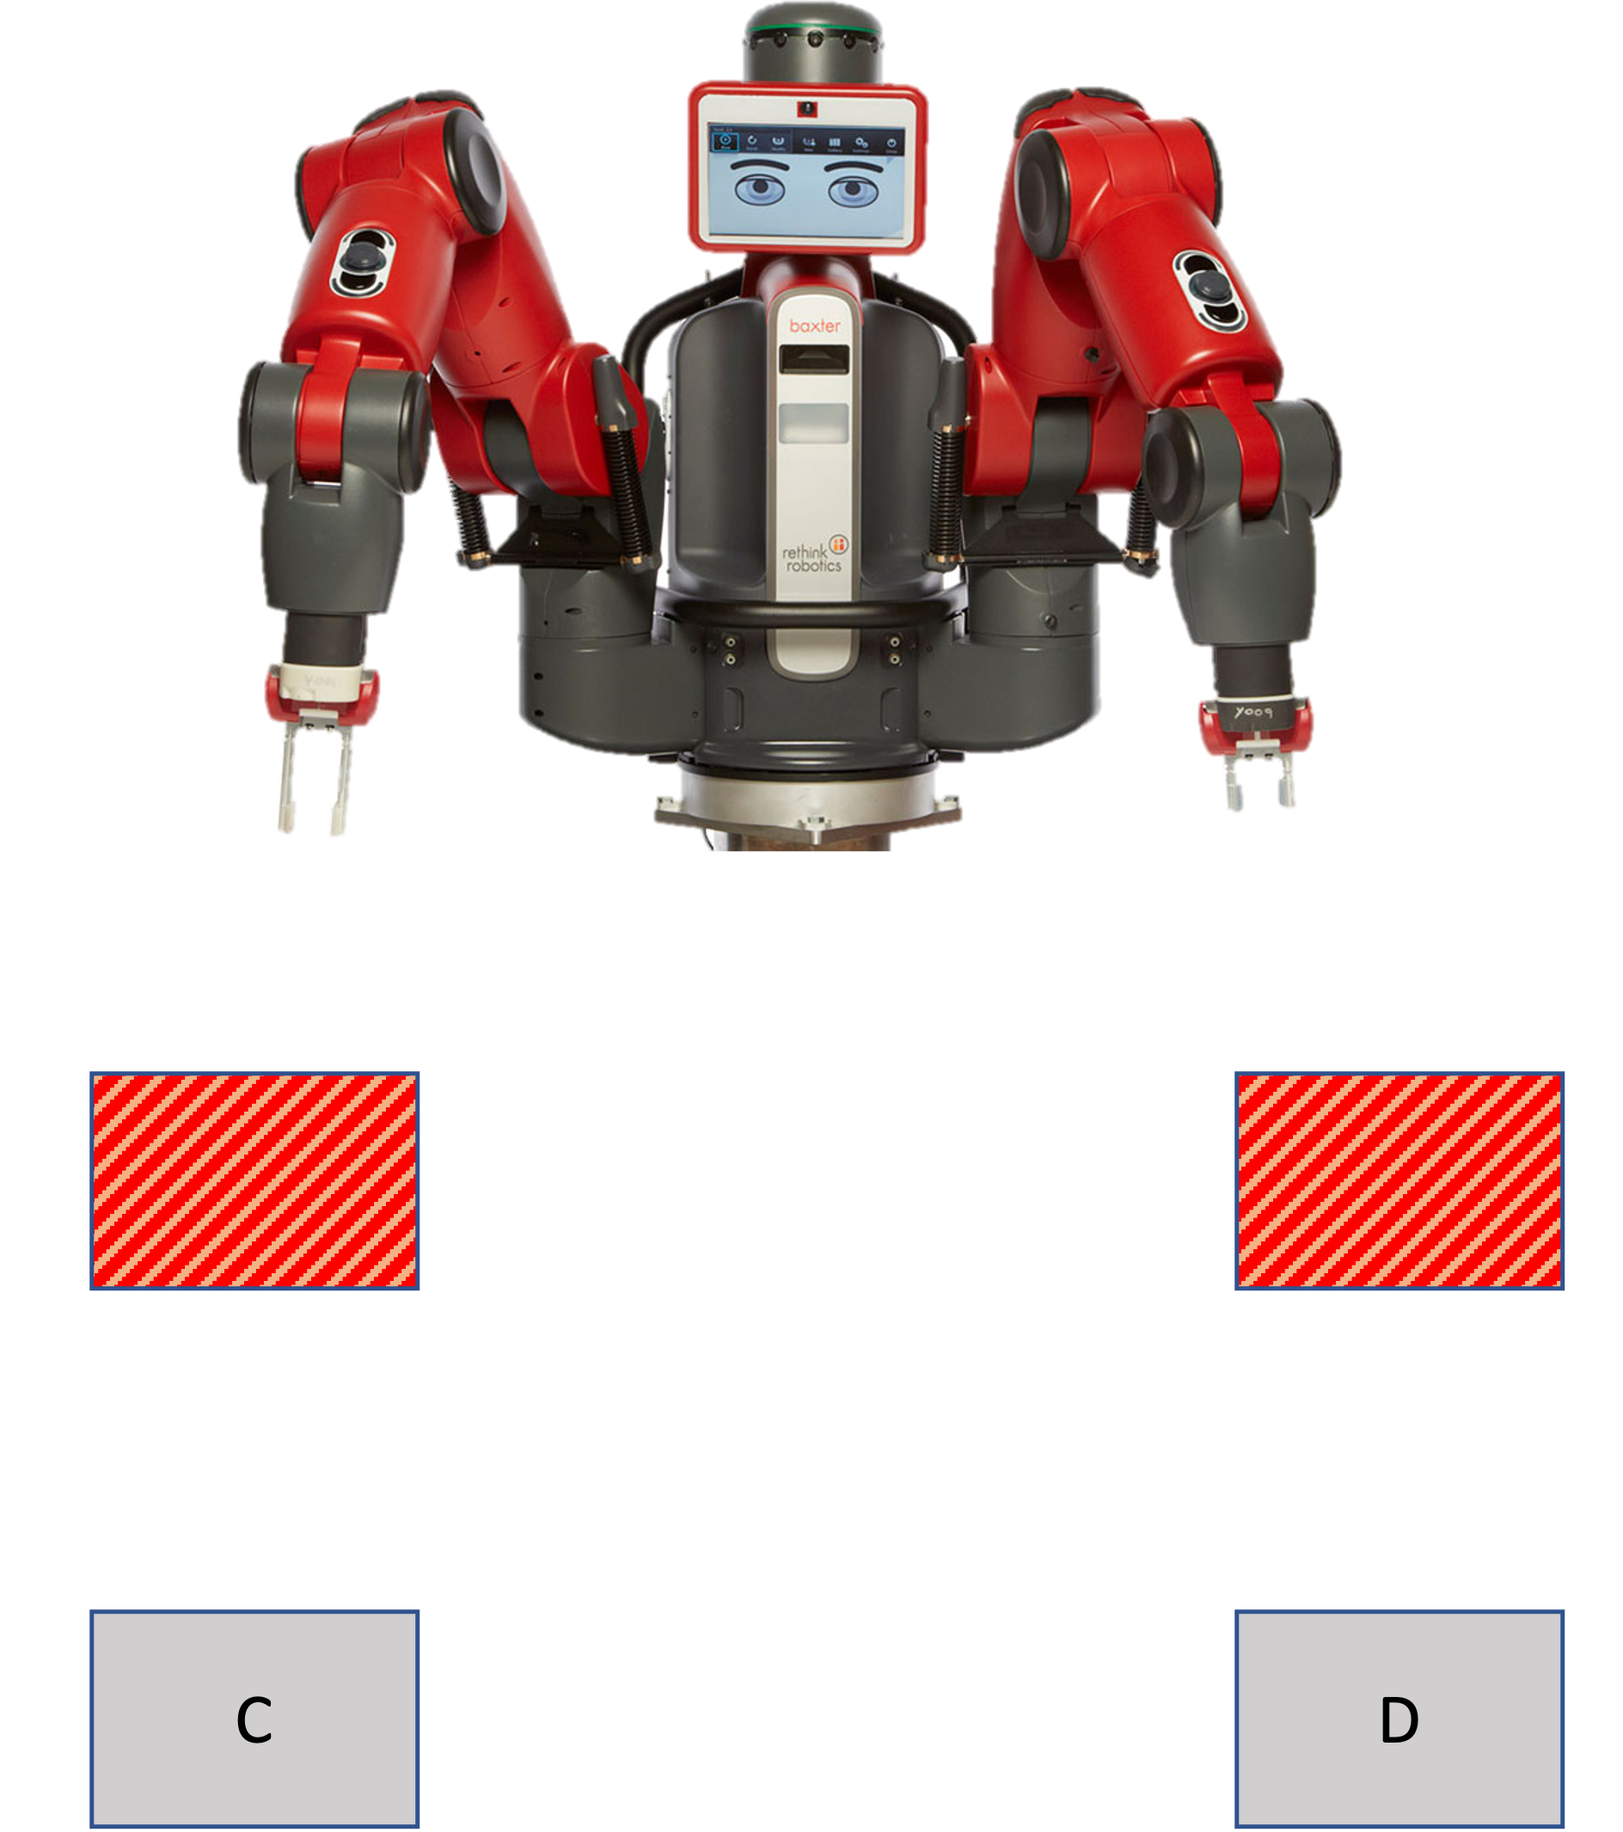
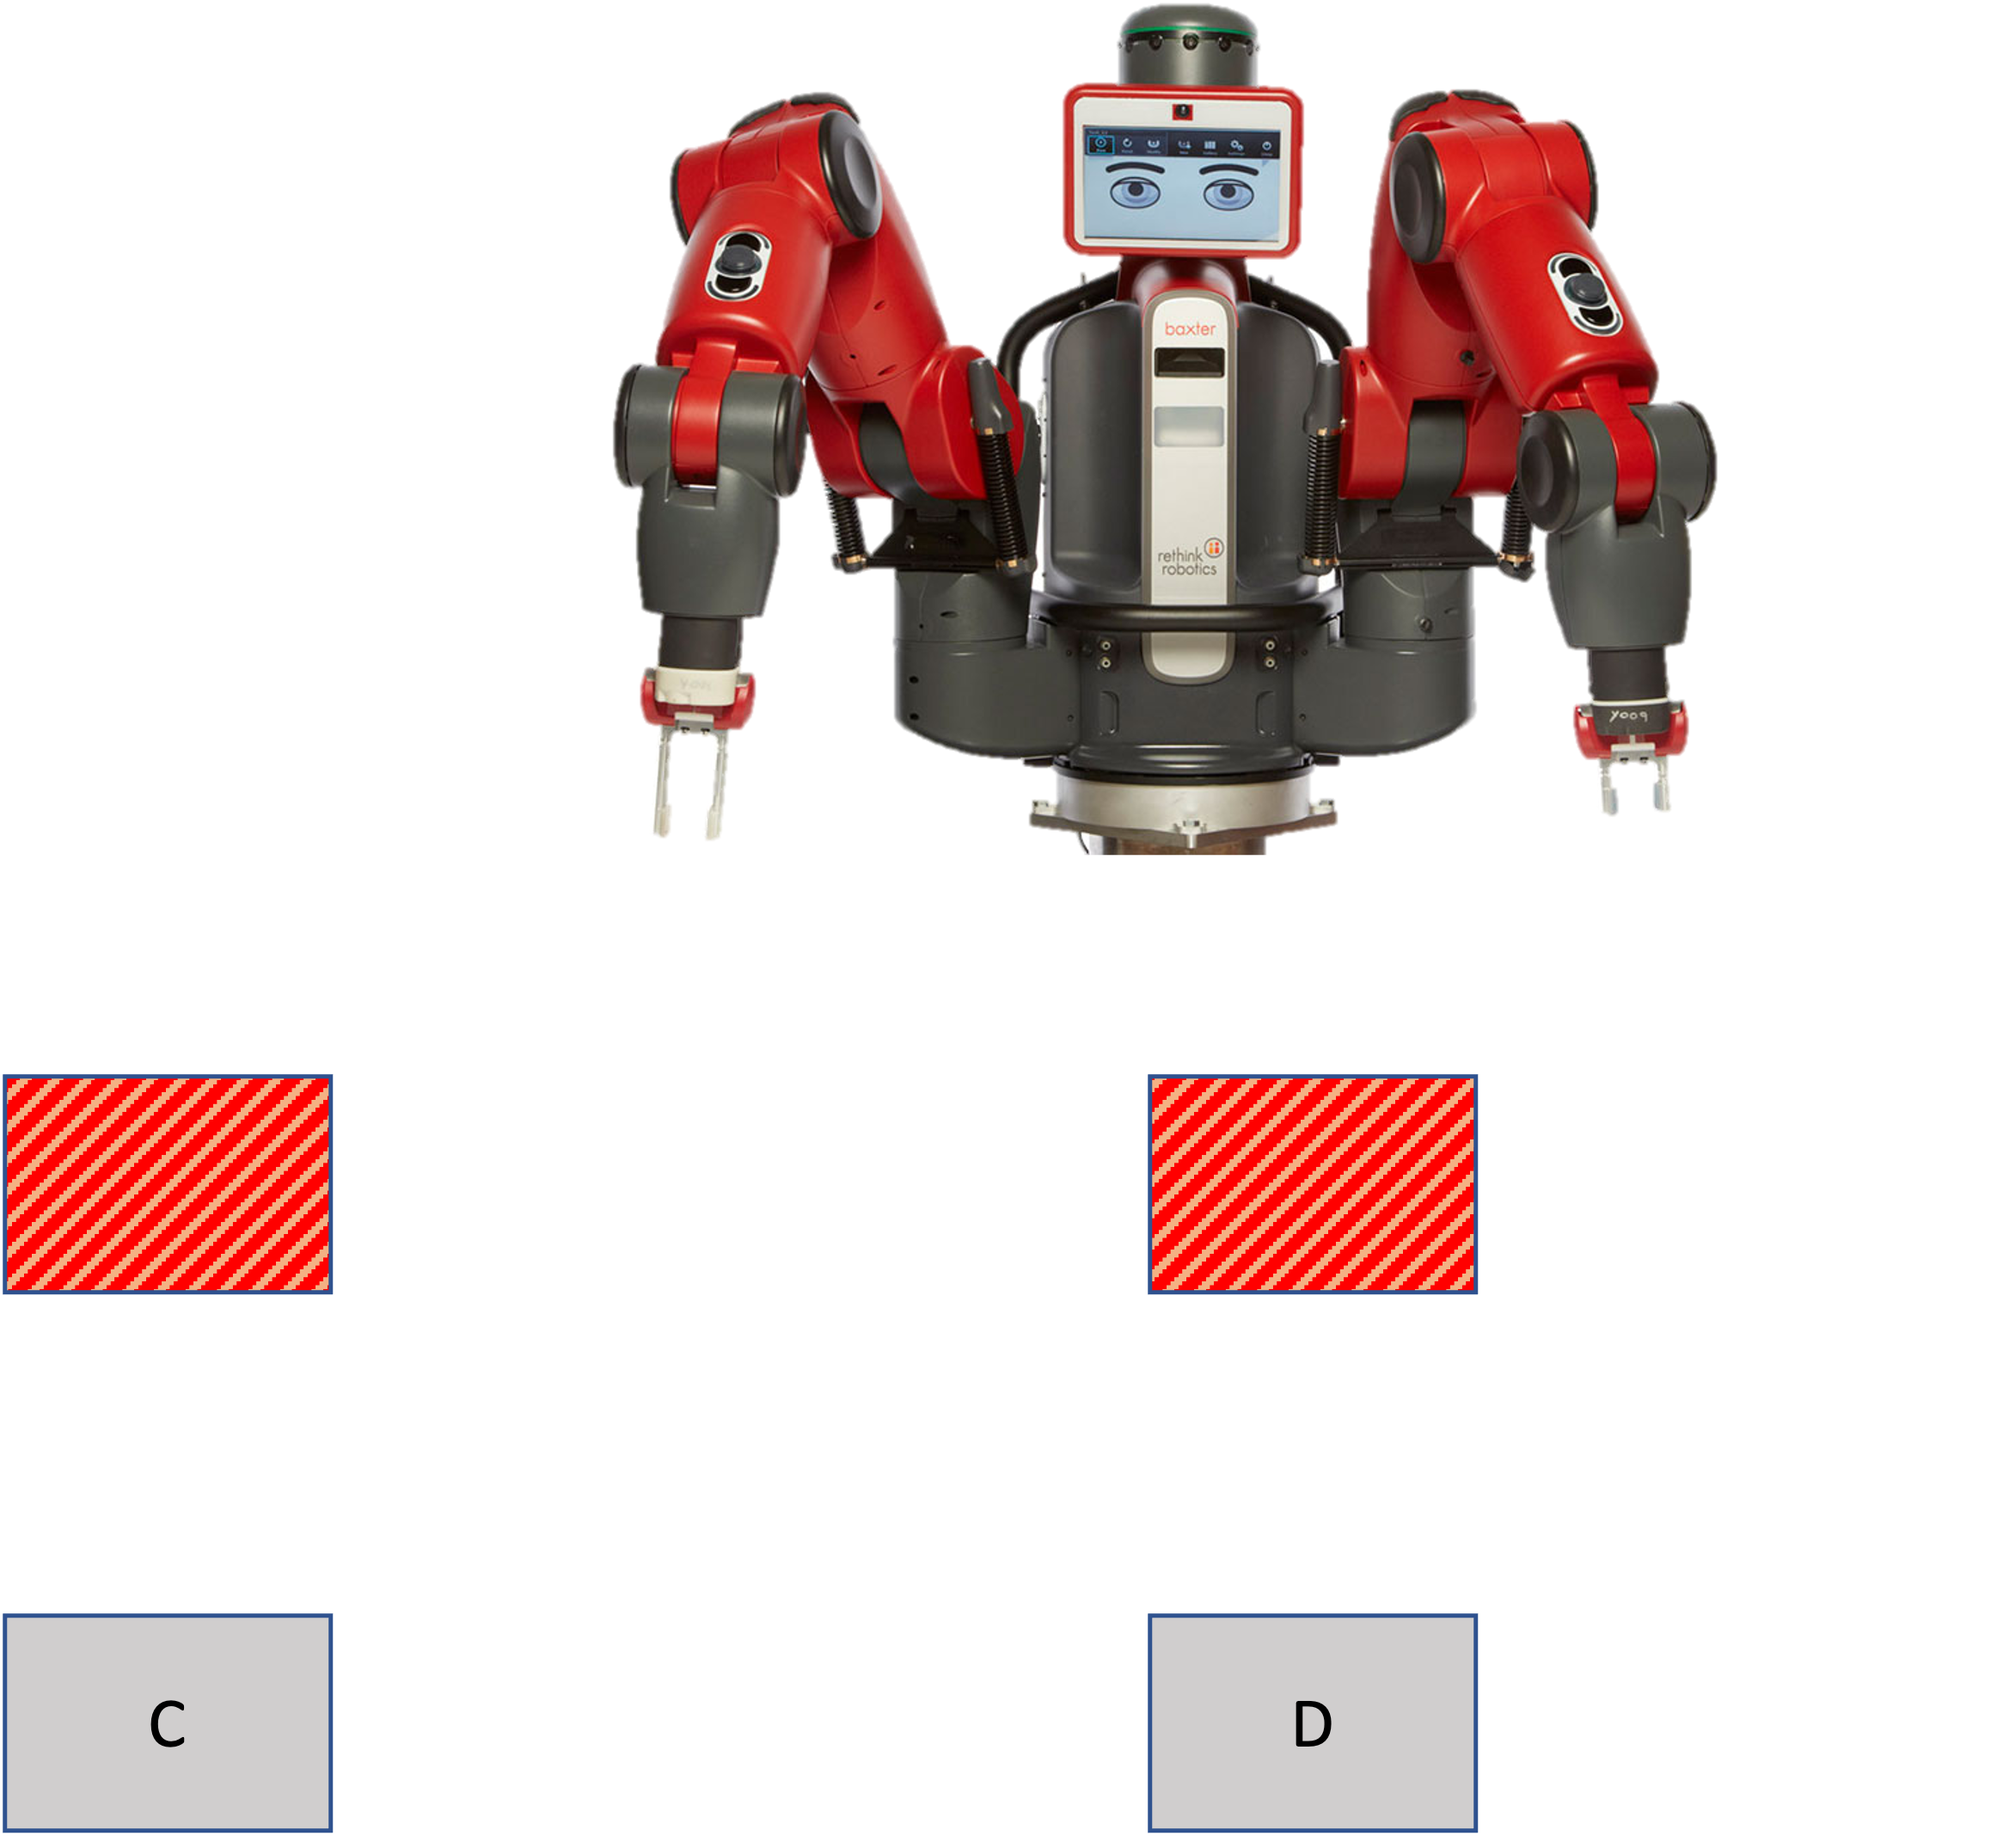
Instructions Simplified White cross is removed and preparation is considered as the count down period. Instructions for move and handover are modified.

diff --git a/gui_base.py b/gui_base.py
@@ -80,7 +80,7 @@ class GuiBase:
         experiment_env = visual.ImageStim(
             image=env_img,
             units="norm",
-            pos=(0, -0.5),
+            pos=(0.05, -0.5),
             size=(0.4, 0.7),
             win=self.win
         )
@@ -176,6 +176,10 @@ class GuiBase:
             event.clearEvents()
 
         # fifth page
+        img2.pos = (-0.25, -0.6)
+        img3.pos = (0.25, -0.6)
+        img2.size = (0.4, 0.8)
+        img3.size = (0.4, 0.8)
         img2.image = move_1
         img3.image = move_2
 
@@ -215,7 +219,7 @@ class GuiBase:
         intro_text.pos = (0, 0.3)
 
         experiment_env.image = pipeline
-        experiment_env.size = (1.1, 0.8)
+        experiment_env.size = (0.7, 0.85)
         experiment_env.pos = (-0.02, -0.55)
 
         intro_text.draw()
@@ -240,10 +244,10 @@ class GuiBase:
         return
 
     def trial_manager(self, trial_sequence):
-        instruction_images = [os.path.join(CONFIG.PATHS.IMGS, "hand_l.png"),
-                              os.path.join(CONFIG.PATHS.IMGS, "hand_r.png"),
-                              os.path.join(CONFIG.PATHS.IMGS, "move_l.png"),
-                              os.path.join(CONFIG.PATHS.IMGS, "move_r.png")]
+        instruction_images = [os.path.join(CONFIG.PATHS.IMGS, "hand_l_ins.png"),
+                              os.path.join(CONFIG.PATHS.IMGS, "hand_r_ins.png"),
+                              os.path.join(CONFIG.PATHS.IMGS, "move_l_ins.png"),
+                              os.path.join(CONFIG.PATHS.IMGS, "move_r_ins.png")]
         for trial in trial_sequence:
             if trial["type"] == "hand" and trial["side"] == "l":
                 self.trial(instruction_images[0])
@@ -256,10 +260,18 @@ class GuiBase:
 
     def trial(self, env_img):
 
-        w_cross = os.path.join(CONFIG.PATHS.IMGS, "white_cross.png")
+        # w_cross = os.path.join(CONFIG.PATHS.IMGS, "white_cross.png")
         r_cross = os.path.join(CONFIG.PATHS.IMGS, "red_cross.png")
         g_cross = os.path.join(CONFIG.PATHS.IMGS, "green_cross.png")
         font_file = [os.path.join(CONFIG.PATHS.STYLES, "OpenSans-Light.ttf")]
+
+        circle = visual.Circle(
+            win=self.win,
+            units="pix",
+            radius=2,
+            fillColor="red",
+            lineColor="red"
+        )
 
         press_text = visual.TextStim(
             font="Open Sans",
@@ -289,12 +301,16 @@ class GuiBase:
         count_down.wrapWidth = 2
         cnt_down = 3
 
+        event.clearEvents()
+        core.wait(CONFIG.CONSTANTS.MARKER_DUR)
+        self.win.flip()
+
         # Instruction
         instruction_img = visual.ImageStim(
             image=env_img,
             units="norm",
             size=(0.5, 0.9),
-            pos=(0, 0.1),
+            pos=(0.05, 0.1),
             win=self.win
         )
 
@@ -303,6 +319,11 @@ class GuiBase:
         self.win.flip()
         core.wait(CONFIG.CONSTANTS.INS_DUR-cnt_down)
         event.clearEvents()
+        self.win.flip()
+        core.wait(CONFIG.CONSTANTS.MARKER_DUR)
+        event.clearEvents()
+        # self.win.flip()
+
         while cnt_down > 0:
             count_down.text = str(cnt_down)
             instruction_img.draw()
@@ -314,22 +335,25 @@ class GuiBase:
             cnt_down -= 1
 
         event.clearEvents()
+        core.wait(CONFIG.CONSTANTS.MARKER_DUR)
         self.win.flip()
+
+        instruction_img.pos = (0, 0.1)
 
         # Preparation
-        instruction_img.image = w_cross
-        instruction_img.size = (0.2, 0.36)
-        instruction_img.draw()
-        self.marker.draw()
-        self.win.flip()
-        core.wait(CONFIG.CONSTANTS.PREP_DUR)
-        event.clearEvents()
-
-        event.clearEvents()
-        self.win.flip()
+        # instruction_img.image = w_cross
+        # instruction_img.size = (0.2, 0.36)
+        # instruction_img.draw()
+        # self.marker.draw()
+        # self.win.flip()
+        # core.wait(CONFIG.CONSTANTS.PREP_DUR)
+        # event.clearEvents()
+        #
+        # event.clearEvents()
+        # self.win.flip()
 
         # Execution
-        instruction_img.image = r_cross
+        instruction_img.image = g_cross
         instruction_img.size = (0.2, 0.36)
         instruction_img.draw()
         self.marker.draw()
@@ -338,10 +362,11 @@ class GuiBase:
         event.clearEvents()
 
         event.clearEvents()
+        core.wait(CONFIG.CONSTANTS.MARKER_DUR)
         self.win.flip()
 
         # Rest
-        instruction_img.image = g_cross
+        instruction_img.image = r_cross
         instruction_img.size = (0.2, 0.36)
         instruction_img.draw()
         self.marker.draw()

diff --git a/instructions_gui.py b/instructions_gui.py
@@ -6,12 +6,8 @@ intro_text = ["Hello dear participant! Welcome to our experiment!",
               "In this experiment, you will either hand objects to the robot or move them to another location.",
               "There are four available object places in front of the robot.",
               "Two of these object places (one in the left and one in the right) is occupied by objects.",
-              "If the instruction is to move one of the objects, it will look like one of the images below.\n"
-              "For example, if the arrow is on the left side, based on the object\'s current location, i.e., A or C, "
-              "you should move it to the other location, i.e., C or A.",
-              "If the instruction is to hand the object to the robot, it will look like one of the images below.\n"
-              "For example, if the arrow is in the left, you pick the object from its current location (A or C), and "
-              "hand it to the robot.",
+              "If the instruction is to move one of the objects, it will look like one of the images below:",
+              "If the instruction is to hand the object to the robot, it will look like one of the images below:",
               "The instructions for each trial will be visually provided to you at the beginning of that trial. "
               "Each trial's pipeline looks like this:",
               "Now let\'s start!\n Press Space Key When You Are Ready"]
@@ -32,18 +28,18 @@ if __name__ == "__main__":
 
 
     try:
-        data_file = open(data_file, 'rt')
-        lines = data_file.read().split('\n')
-        trial_sequence = []
-        for l in lines:
-            if l != '':
-                dictionary = parse(l)
-                trial_sequence.append(dictionary)
-        data_file.close()
-        # trial_sequence = [{"type": "hand", "side": "l"},
-        # {"type": "move", "side": "l"},
-        # {"type": "hand", "side": "r"},
-        # {"type": "move", "side": "r"}]
+        # data_file = open(data_file, 'rt')
+        # lines = data_file.read().split('\n')
+        # trial_sequence = []
+        # for l in lines:
+        #     if l != '':
+        #         dictionary = parse(l)
+        #         trial_sequence.append(dictionary)
+        # data_file.close()
+        trial_sequence = [{"type": "hand", "side": "l"},
+                          {"type": "move", "side": "l"},
+                          {"type": "hand", "side": "r"},
+                          {"type": "move", "side": "r"}]
         gui = GuiBase(intro_text)
         gui.start(trial_sequence)
     except:
